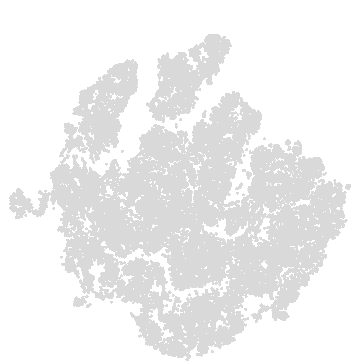
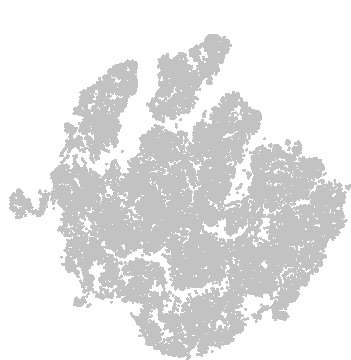
Replace scatter png with new color

diff --git a/myapp/public/js/mapView.js b/myapp/public/js/mapView.js
@@ -254,7 +254,7 @@ function load(
         scatterCircleGraphics.endFill();
       }
       var fileName = '';
-      fileName += op.sample_rate + '_'
+      fileName += op.sample_rate + '_';
       var sample_method = "";
       if ($("#checkBtw").is(":checked")) {
         sample_method += "0";
@@ -264,9 +264,6 @@ function load(
       }
       if ($("#checkComm").is(":checked")) {
         sample_method += "2";
-      }
-      if (sample_method === '') {
-        sample_method = '012'
       }
       fileName += sample_method
       if ($("#comDetec").is(":checked")) {
@@ -1349,7 +1346,7 @@ function load(
                 }
                 /*getScatterData(op.getSampleFile()).then(function (value) {
                   downloadPng(value);
-                }) */
+                })*/
                 var sampleRateScale = d3
                   .scaleOrdinal()
                   .domain([40, 20, 10, 5])
